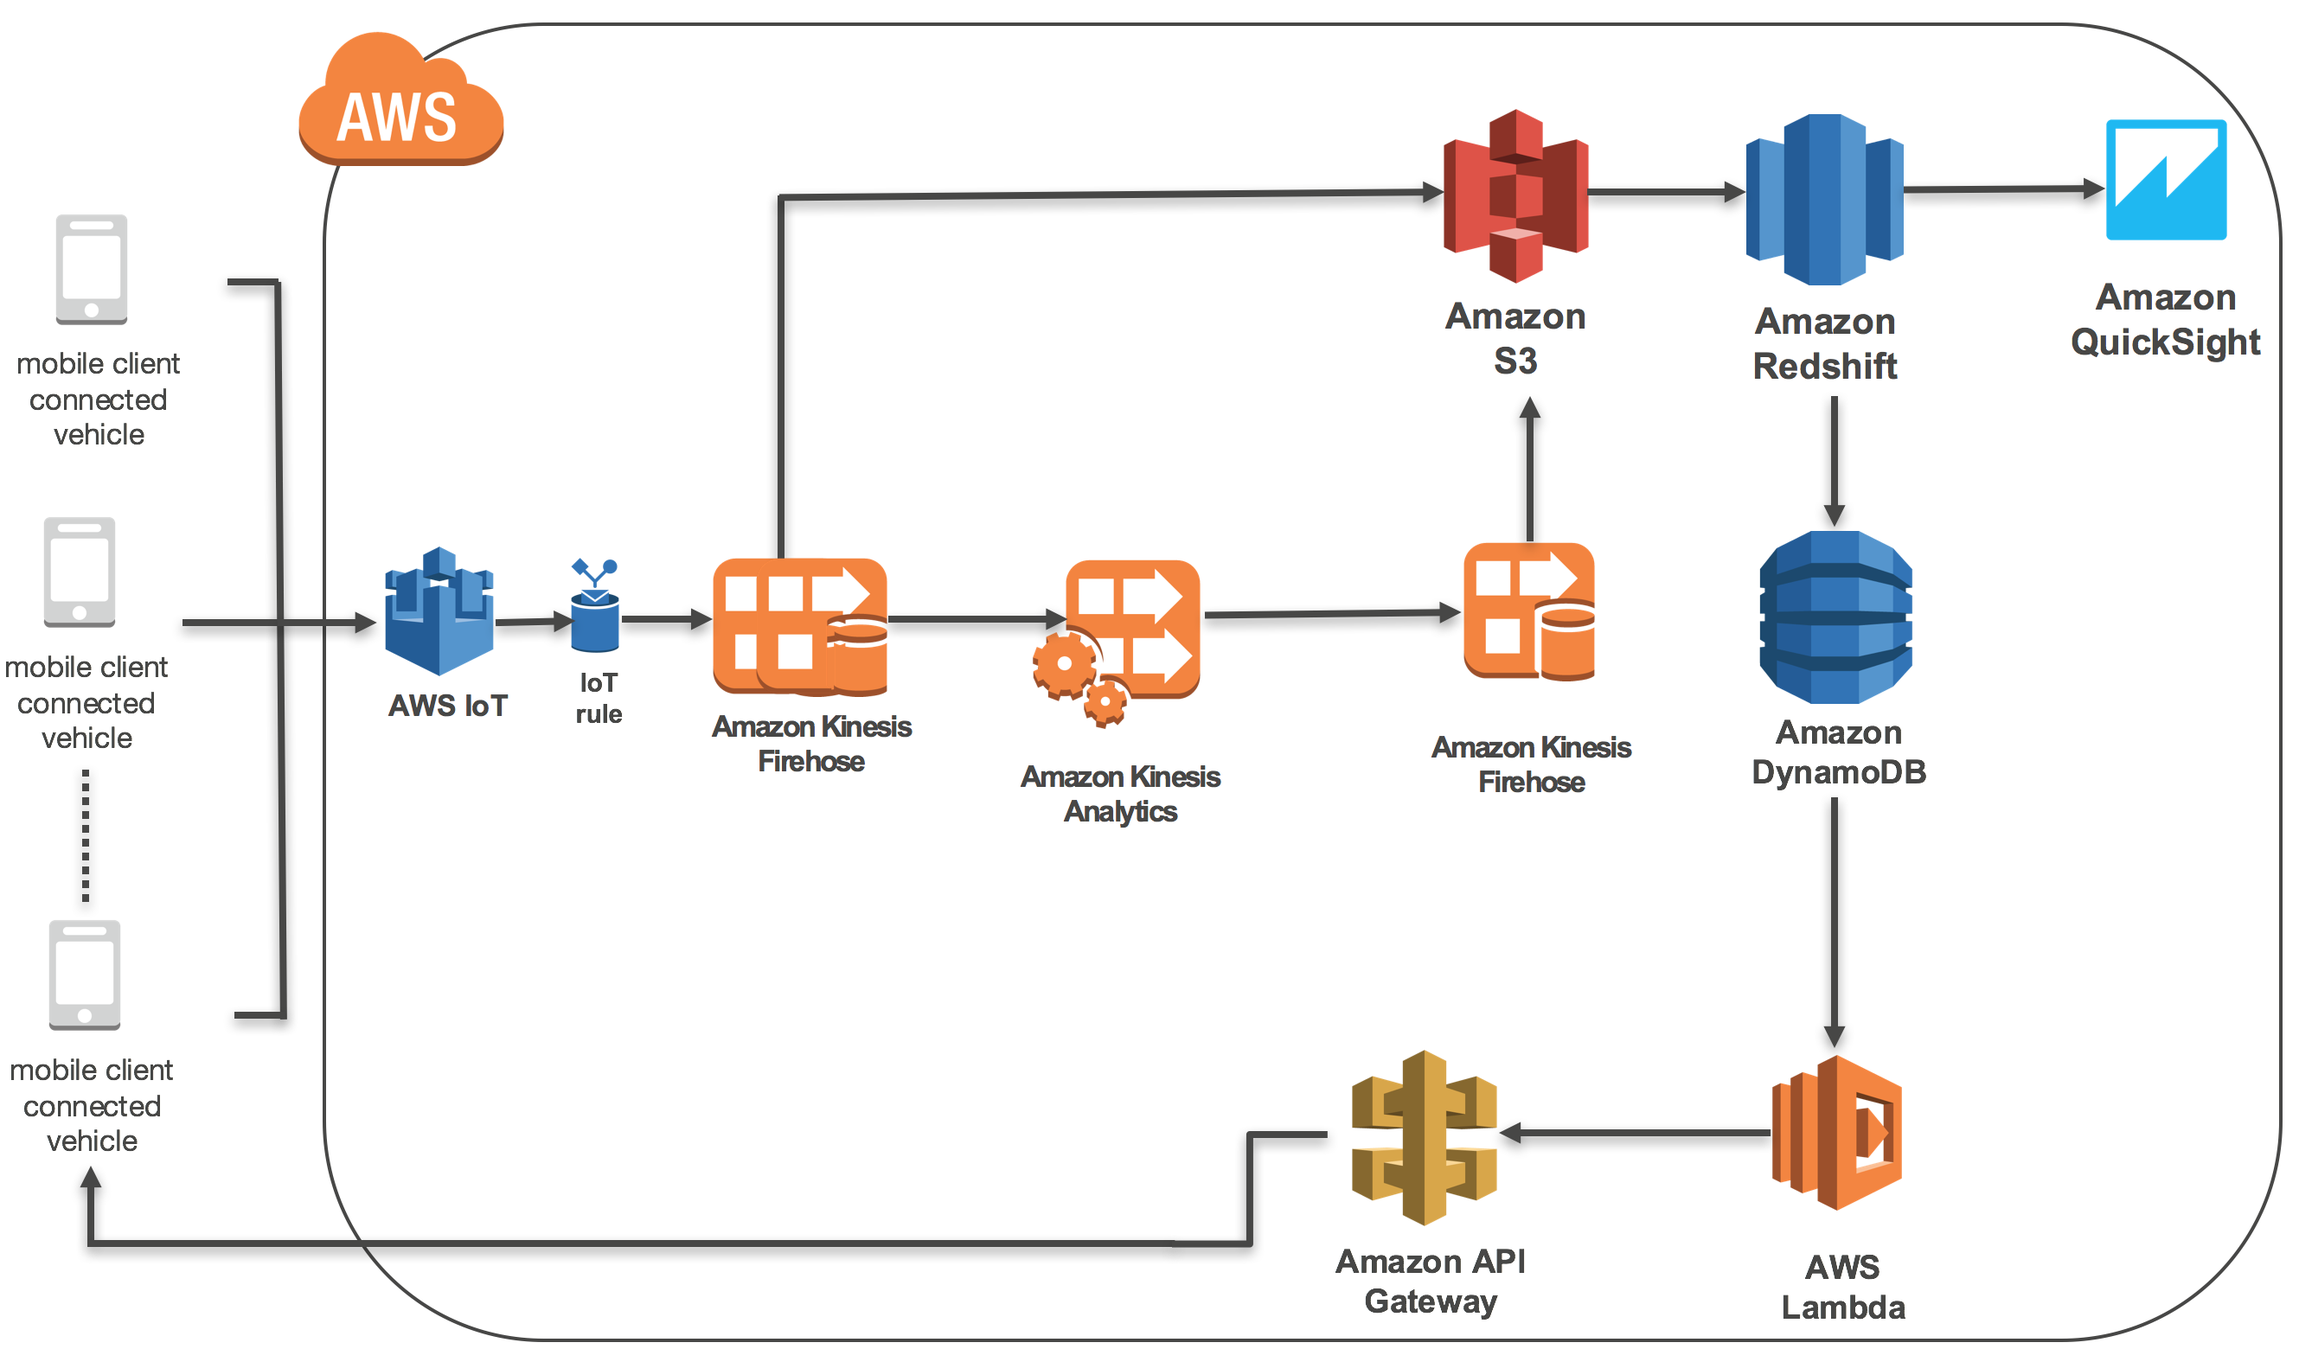
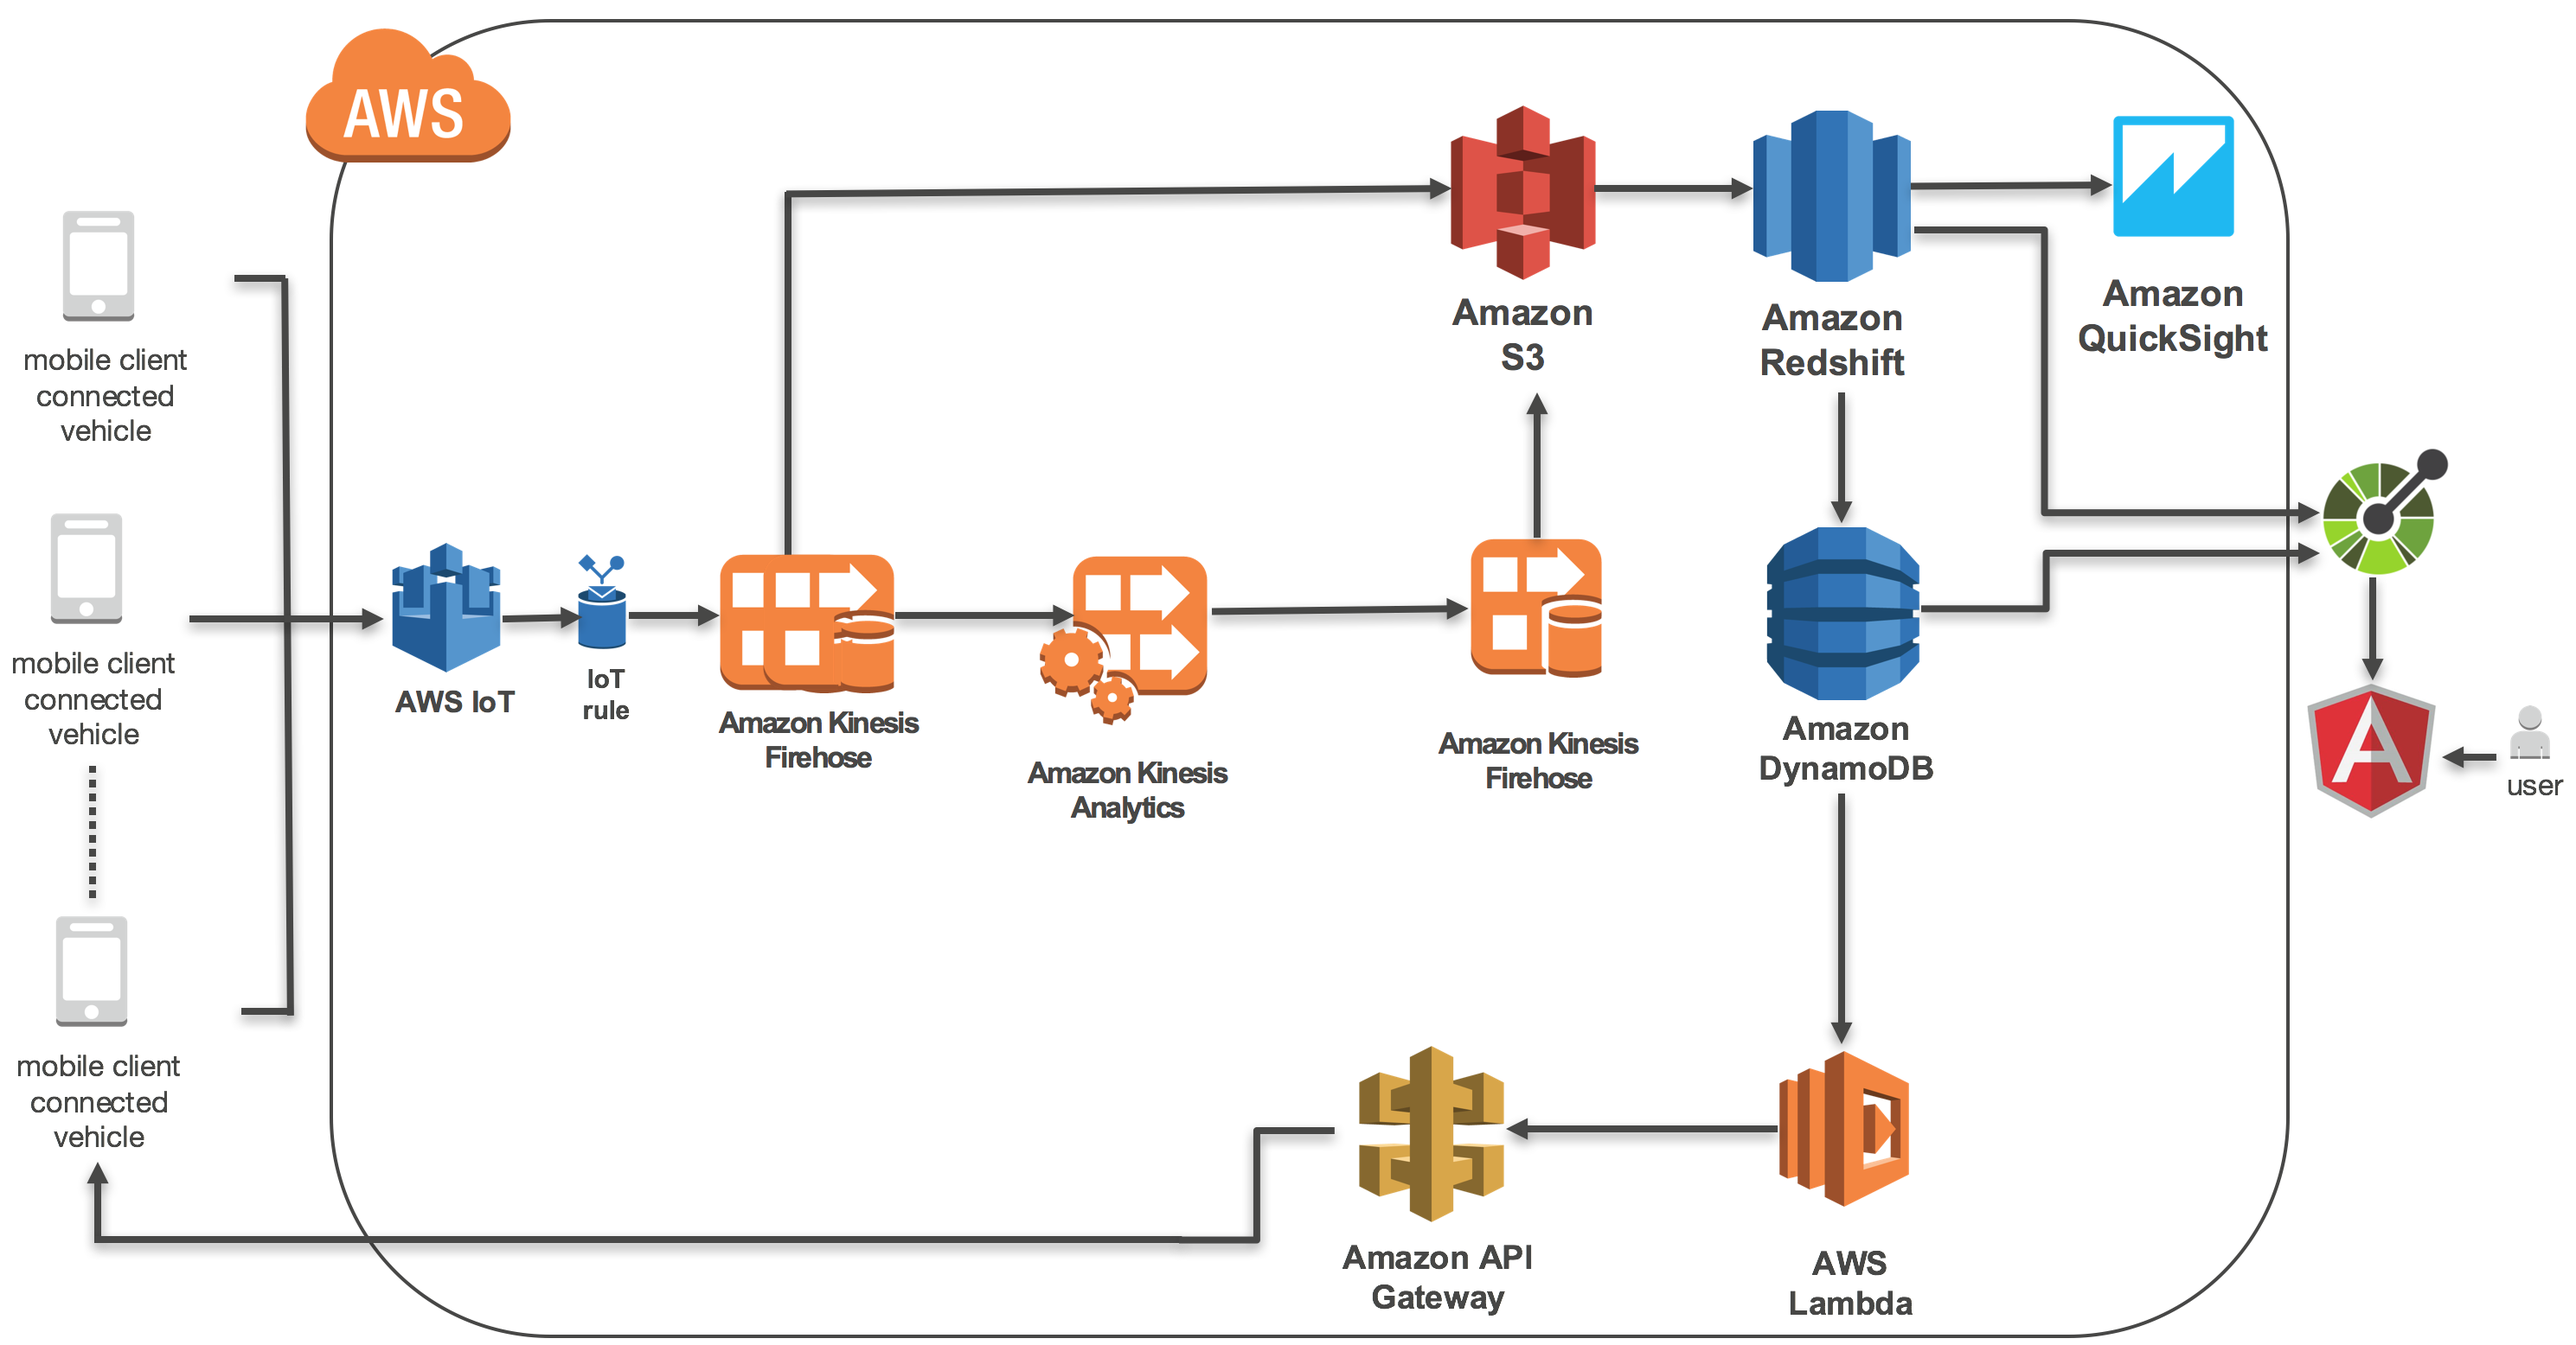
added architecture diag for FlightRadar

diff --git a/README.md b/README.md
@@ -3,7 +3,7 @@
 Projects using Amazon Web Services (AWS) including AWS IoT (Internet of Things),
 Amazon Kinesis, and so on
 
-## HomeSecure - Lowering Home Insurance Premium Using SMART HOME IoT SOLUTION
+## HomeSecure and Insurance - Lowering Home Insurance Premium Using SMART HOME IoT SOLUTION
 
 Smart home and automation is an internet of things solution for users to have
 more control from preventing water leaks to air quality. It brings reliability
@@ -268,9 +268,14 @@ Amazon EC2
 
 ## 4. Amazon FlightPulse, AWS IoT & Mobile Augmented Reality (AR)
 
+### Architecture
+
+![image alt text](/images/rpi_sdr_Arch_1.png)
+
 ### Hardware Setup
 
 ![image alt text](/images/rpi_sdr_nooelec.png)
+
 
 Hardware components used:
 

diff --git a/arity-developer/README.md b/arity-developer/README.md
@@ -1,8 +1,9 @@
+#Driving Behavior Instructions
+
 ### Arity Driving Engine SDK
 
 ![image alt text](/images/Arity_DE_SDK.png)
 
-#Driving Behavior Instructions
 
 ### Driving Behavior using Arity SDK/API
 
